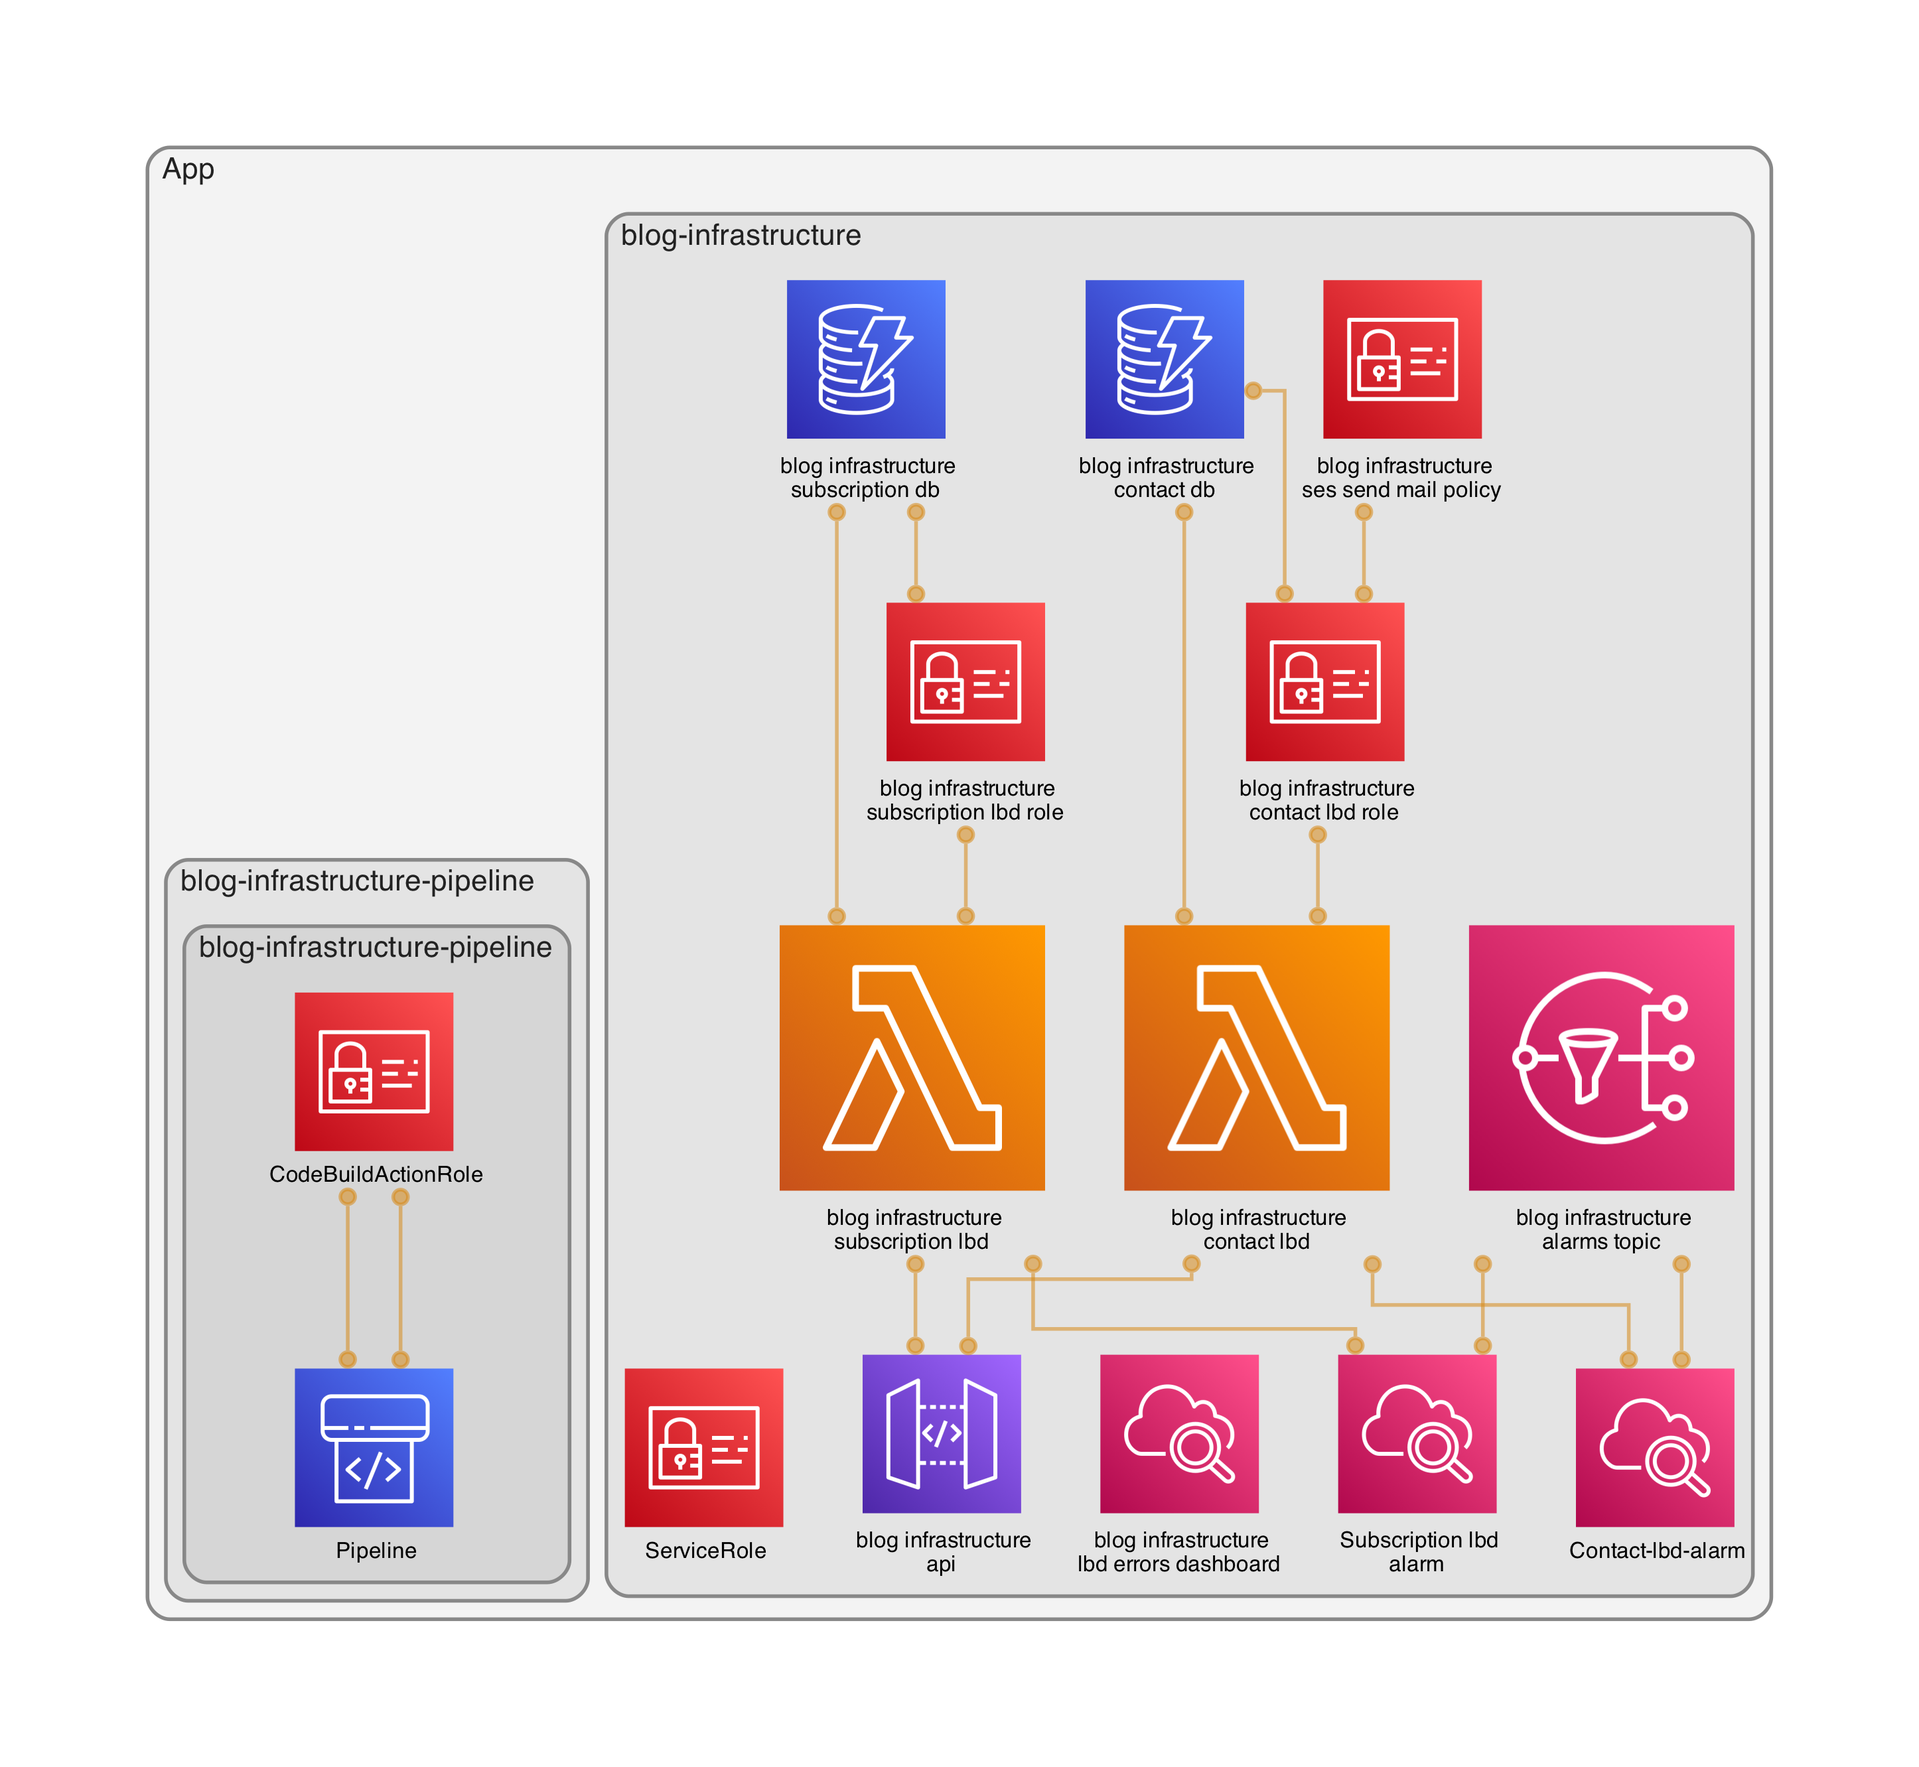
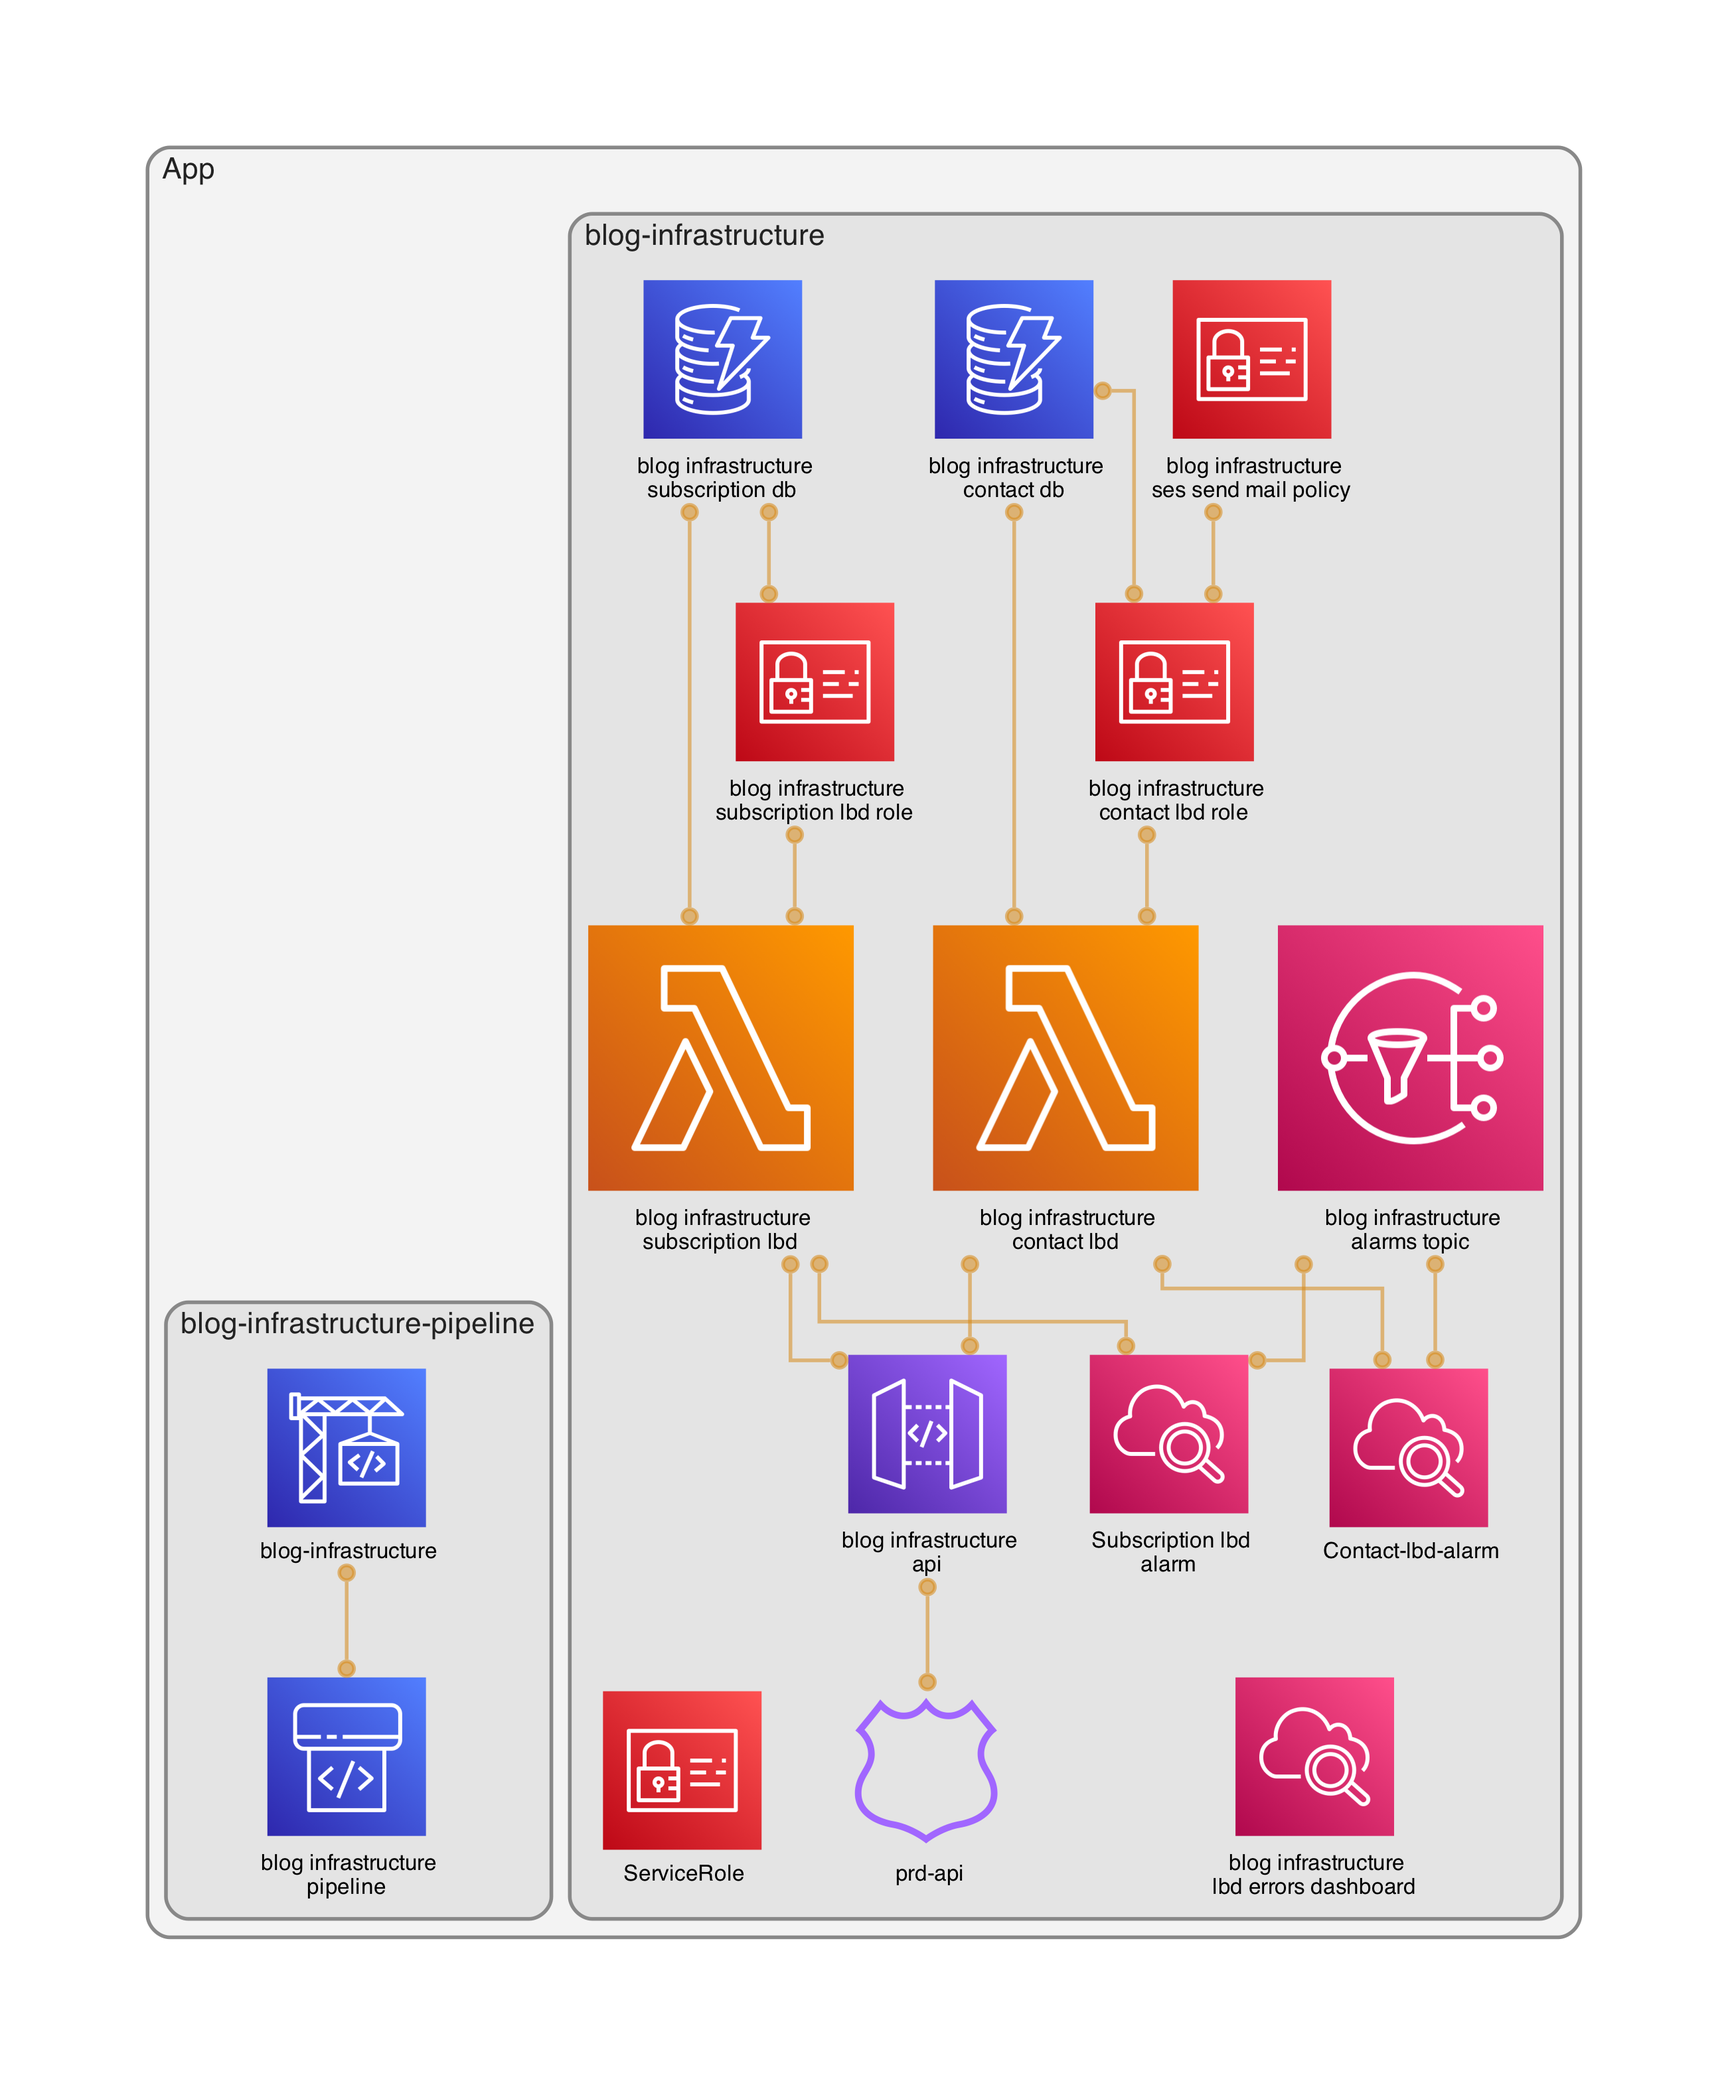
refactor: update pipeline to deploy the project

Changed region(s): [[0.0622, 0.0623, 0.9335, 0.935]]

diff --git a/cicd/infrastructure/codepipeline.ts b/cicd/infrastructure/codepipeline.ts
@@ -1,50 +1,94 @@
 import { Construct } from 'constructs';
-import {
-  CodeBuildStep,
-  CodePipeline,
-  CodePipelineSource,
-} from 'aws-cdk-lib/pipelines';
 import { aws_iam } from 'aws-cdk-lib';
-import { getMyGitHubConnectionFromSsmParameterStore } from '../../cicd/config/ssm';
+import * as codepipeline from 'aws-cdk-lib/aws-codepipeline';
+import * as codepipeline_actions from 'aws-cdk-lib/aws-codepipeline-actions';
+import * as s3 from 'aws-cdk-lib/aws-s3';
+import * as codebuild from 'aws-cdk-lib/aws-codebuild';
+import { getMyGitHubConnectionFromSsmParameterStore } from '../config/ssm';
 import config from 'config';
 
 export function createCodePipeline(scope: Construct): void {
   const name = `${config.get('name')}`;
-  new CodePipeline(scope, name + '-pipeline', {
-    pipelineName: name,
-    // synth: new ShellStep('Deploy', {
-    synth: new CodeBuildStep('Deploy', {
-      projectName: name,
-      // input: CodePipelineSource.gitHub('alazaroc/aws-cdk-pipeline', 'main'),
-      input: CodePipelineSource.connection(
-        'alazaroc/blog-infrastructure',
-        'main',
-        {
-          connectionArn: getMyGitHubConnectionFromSsmParameterStore(scope),
+  // Create an S3 bucket to store pipeline artifacts
+  const artifactBucket = s3.Bucket.fromBucketName(
+    scope,
+    'cicdBucket',
+    `${config.get('resources.s3.cicd')}`,
+  );
+
+  // Create the source action
+  const sourceOutput = new codepipeline.Artifact();
+  const sourceAction = new codepipeline_actions.CodeStarConnectionsSourceAction(
+    {
+      actionName: 'Source',
+      connectionArn: getMyGitHubConnectionFromSsmParameterStore(scope),
+      owner: 'alazaroc',
+      repo: 'blog-infrastructure',
+      branch: 'main',
+      output: sourceOutput,
+    },
+  );
+
+  // Create the build action
+  // const buildOutput = new codepipeline.Artifact();
+  const buildProject = new codebuild.PipelineProject(scope, name, {
+    projectName: name + '-build',
+    // buildSpec: codebuild.BuildSpec.fromAsset('my-buildspec.yml'),
+    buildSpec: codebuild.BuildSpec.fromObject({
+      version: '0.2',
+      phases: {
+        build: {
+          commands: ['npm ci', 'npx cdk deploy blog-infrastructure'],
         },
-      ),
-      commands: [
-        'npm ci',
-        // 'npm run build',
-        'npx cdk deploy blog-infrastructure',
-      ],
-      rolePolicyStatements: [
-        new aws_iam.PolicyStatement({
-          actions: ['sts:AssumeRole'],
-          resources: ['*'],
-          conditions: {
-            StringEquals: {
-              'iam:ResourceTag/aws-cdk:bootstrap-role': [
-                'lookup',
-                'image-publishing',
-                'file-publishing',
-                'deploy',
-              ],
-            },
-          },
-        }),
-      ],
+      },
+      artifacts: {
+        files: ['**/*'],
+      },
+      // ...
     }),
-    selfMutation: false,
+    description: 'Build phase for blog-infrastructure resources',
+    environment: {
+      computeType: codebuild.ComputeType.SMALL,
+      buildImage: codebuild.LinuxBuildImage.AMAZON_LINUX_2_4,
+    },
+  });
+  buildProject.addToRolePolicy(
+    new aws_iam.PolicyStatement({
+      actions: ['sts:AssumeRole'],
+      resources: ['*'],
+      conditions: {
+        StringEquals: {
+          'iam:ResourceTag/aws-cdk:bootstrap-role': [
+            'lookup',
+            'image-publishing',
+            'file-publishing',
+            'deploy',
+          ],
+        },
+      },
+    }),
+  );
+  const buildAction = new codepipeline_actions.CodeBuildAction({
+    actionName: 'Build',
+    input: sourceOutput,
+    // outputs: [buildOutput],
+    project: buildProject,
+  });
+
+  // Create the pipeline
+  new codepipeline.Pipeline(scope, name + '-pipeline', {
+    pipelineName: name,
+    stages: [
+      {
+        stageName: 'Source',
+        actions: [sourceAction],
+      },
+      {
+        stageName: 'Build',
+        actions: [buildAction],
+      },
+    ],
+    artifactBucket,
+    restartExecutionOnUpdate: true,
   });
 }

diff --git a/README.md b/README.md
@@ -5,6 +5,19 @@ This is the public infrastructure code of my [blog](https://www.playingaws.com/)
 Architecture diagram:
 ![architecture-diagram](diagram.png)
 
+CDK project with 2 stacks:
+
+- Backend:
+  - API Gateway using custom domain
+  - Lambdas
+  - DynamoDB
+  - CloudWatch: lambda alarm and dashboard of lambdas
+- CICD:
+  - CodePipeline with 2 stages
+    - source: CodeCommit with GitHub
+    - build: CodeBuild (executes terraform apply)
+  - S3 (as artifactory in CodePipeline)
+
 ## Review QA
 
 ```npm run lint && npm run test```
